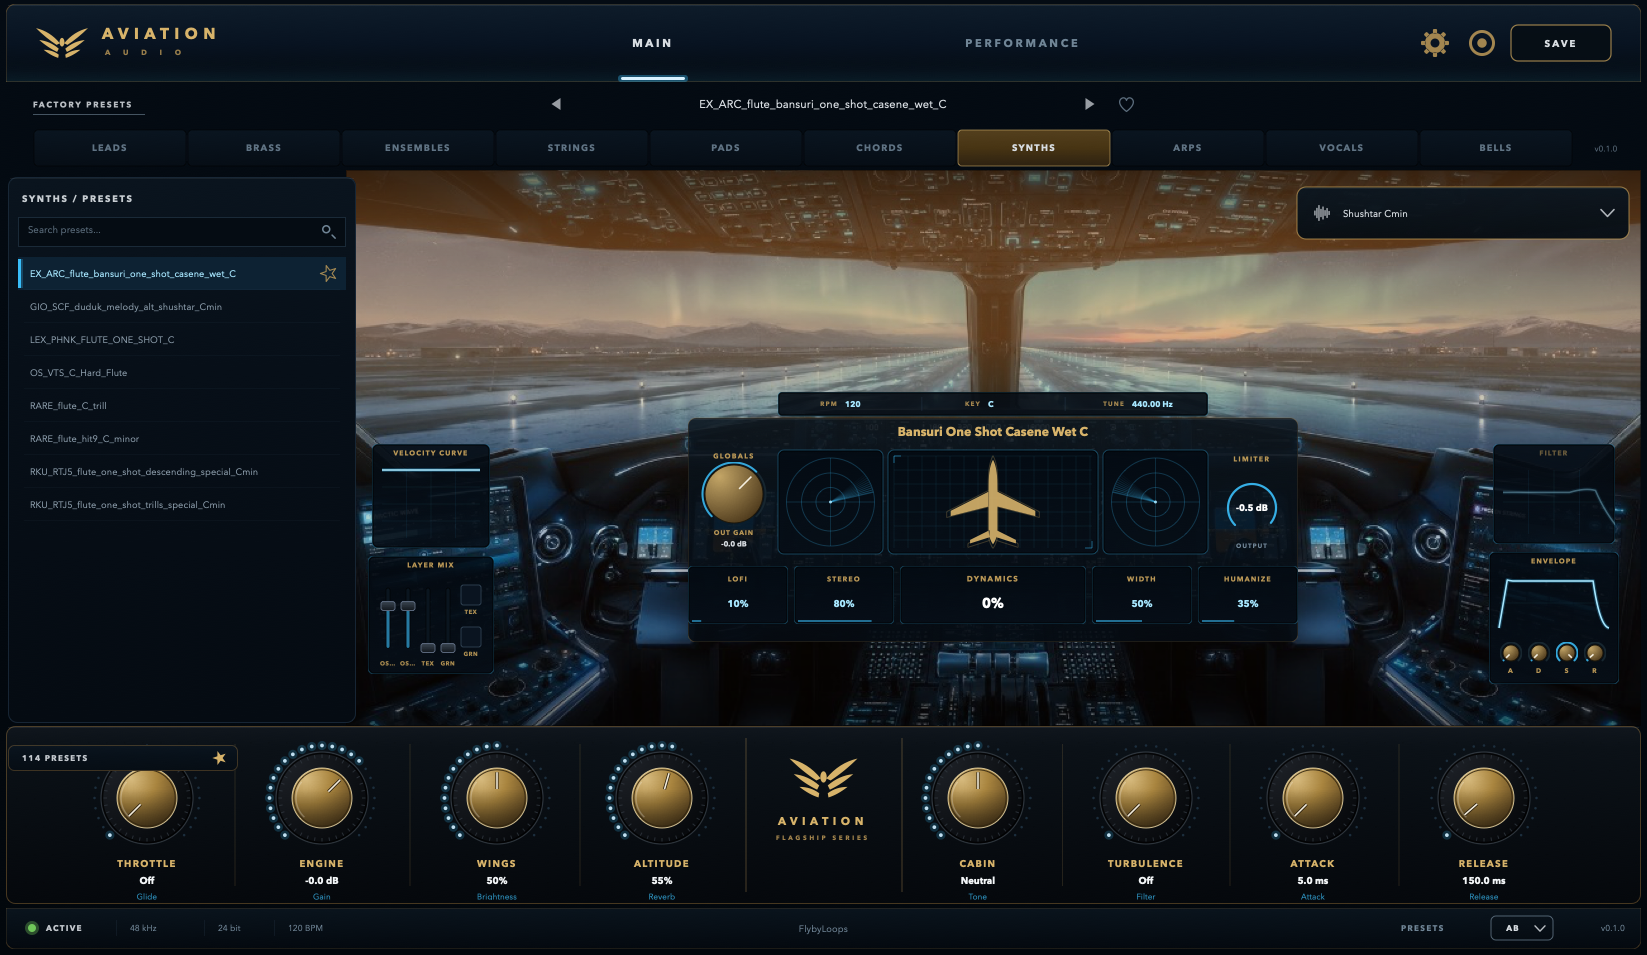
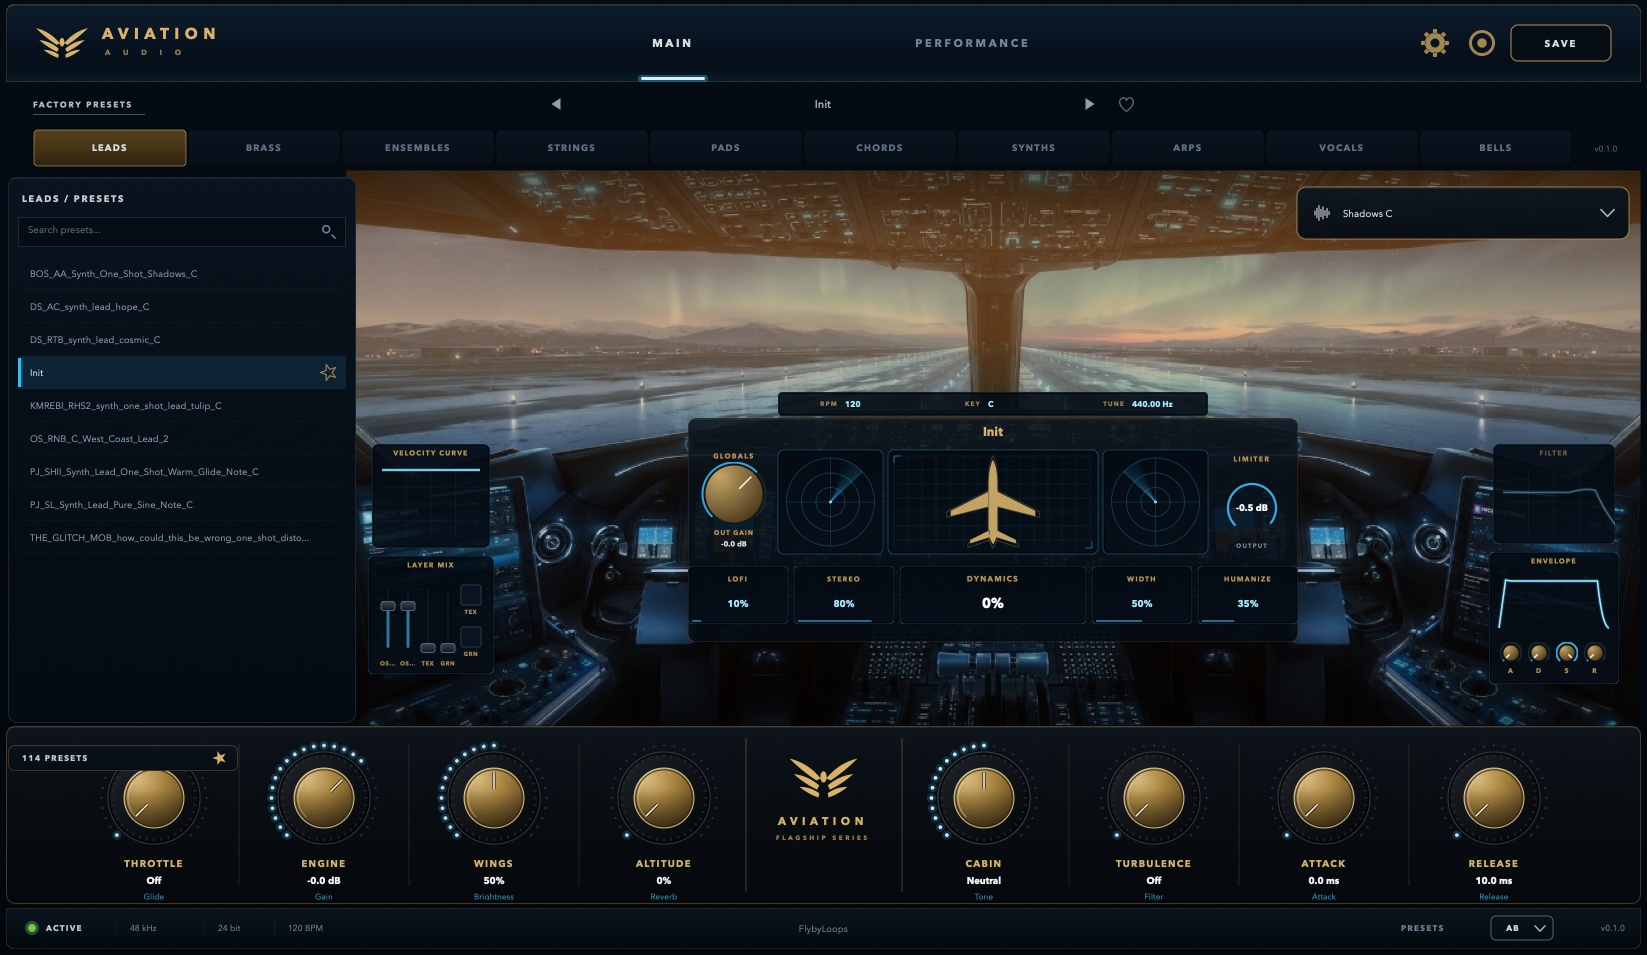
Center the composition: mirror nav tabs and macro knobs
MAIN/PERFORMANCE are now placed symmetrically around the header center
(+/-150px), and the eight macro knobs mirror around the central brand
block (+/-160/330/500/670) with dividers at the true midpoints. The
previous hand-placed positions drifted up to ~30px off-axis, which made
the whole deck and header read as slightly off center.

diff --git a/Source/GUI/Aviation/MacroDeck.cpp b/Source/GUI/Aviation/MacroDeck.cpp
@@ -35,14 +35,16 @@ MacroDeck::MacroDeck (juce::AudioProcessorValueTreeState& apvts)
 
 void MacroDeck::resized()
 {
-    // Four knob cells each side of the central brand block.
-    const int knobCenters[] = { 141, 316, 491, 656, 972, 1140, 1307, 1478 };
+    // Four knob cells mirrored on each side of the central brand block.
+    const float centre = (float) getWidth() * 0.5f;
+    const float offsets[] = { -670.0f, -500.0f, -330.0f, -160.0f,
+                               160.0f,  330.0f,  500.0f,  670.0f };
     const int y = 6;
     const int h = getHeight() - 10;
 
     for (size_t i = 0; i < knobs.size(); ++i)
     {
-        const int cx = juce::roundToInt ((float) knobCenters[i] * (float) getWidth() / 1635.0f);
+        const int cx = juce::roundToInt (centre + offsets[i]);
         knobs[i]->setBounds (cx - kCellW / 2, y, kCellW, h);
     }
 }
@@ -77,13 +79,10 @@ void MacroDeck::paint (juce::Graphics& g)
 
     // fine gold dividers between sections (stronger around the brand block)
     g.setColour (Aviation::gold().withAlpha (0.16f));
-    const int knobCenters[] = { 141, 316, 491, 656, 972, 1140, 1307, 1478 };
-    for (int i = 0; i < 3; ++i)
+    for (float offset : { 245.0f, 415.0f, 585.0f })
     {
-        const float leftDiv  = ((float) (knobCenters[i] + knobCenters[i + 1]) * 0.5f) * r.getWidth() / 1635.0f;
-        const float rightDiv = ((float) (knobCenters[i + 4] + knobCenters[i + 5]) * 0.5f) * r.getWidth() / 1635.0f;
-        g.fillRect (juce::Rectangle<float> (r.getX() + leftDiv, r.getY() + 18.0f, 1.0f, r.getHeight() - 36.0f));
-        g.fillRect (juce::Rectangle<float> (r.getX() + rightDiv, r.getY() + 18.0f, 1.0f, r.getHeight() - 36.0f));
+        g.fillRect (juce::Rectangle<float> (cx - offset, r.getY() + 18.0f, 1.0f, r.getHeight() - 36.0f));
+        g.fillRect (juce::Rectangle<float> (cx + offset, r.getY() + 18.0f, 1.0f, r.getHeight() - 36.0f));
     }
     g.setColour (Aviation::gold().withAlpha (0.35f));
     g.fillRect (juce::Rectangle<float> (cx - (float) kBrandHalfW, r.getY() + 12.0f, 1.0f, r.getHeight() - 24.0f));

diff --git a/Source/GUI/Aviation/TopHeader.cpp b/Source/GUI/Aviation/TopHeader.cpp
@@ -12,9 +12,10 @@ void TopHeader::resized()
     const int w = getWidth();
     const int h = getHeight();
 
-    // Centered navigation. MAIN sits left of center, PERFORMANCE right.
-    mainTabArea = { w / 2 - 290, 0, 240, h };
-    perfTabArea = { w / 2 + 50, 0, 300, h };
+    // Navigation mirrored around the header center: MAIN's center sits 150px
+    // left of center, PERFORMANCE's center 150px right.
+    mainTabArea = { w / 2 - 150 - 120, 0, 240, h };
+    perfTabArea = { w / 2 + 150 - 150, 0, 300, h };
 
     gearArea    = { w - 220, h / 2 - 14, 28, 28 };
     utilityArea = { w - 172, h / 2 - 13, 26, 26 };
